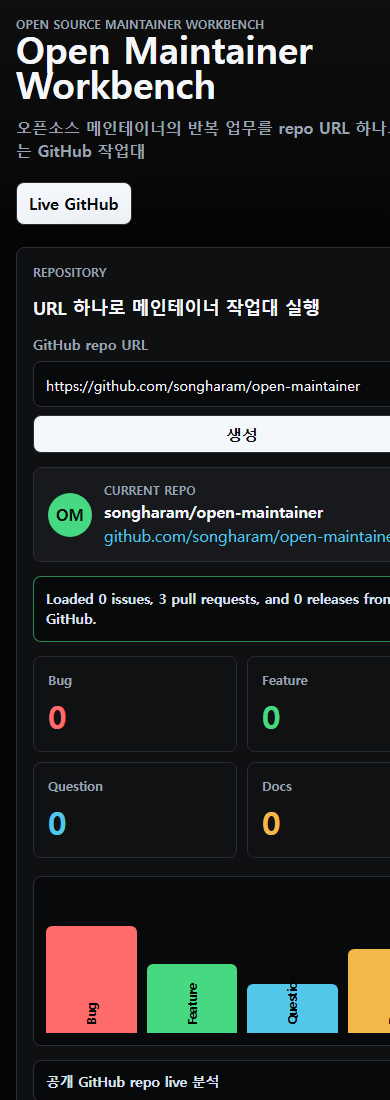
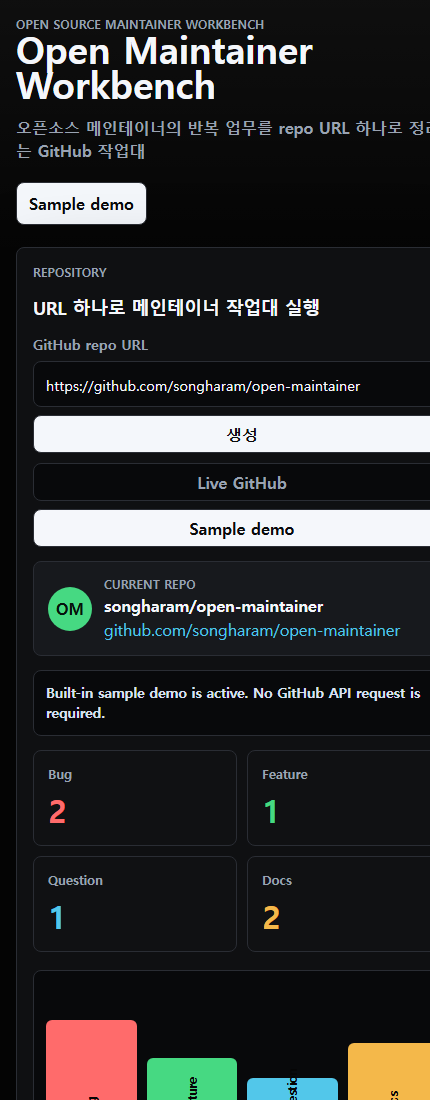
feat: add sample demo mode

Changed region(s): [[0.0308, 0.0, 1.0, 1.0]]

diff --git a/app.js b/app.js
@@ -1,4 +1,5 @@
 import { extractRepoIdentity, generateMaintainerWorkspace } from "./src/analyzer.js";
+import { DATA_MODES, resolveInitialDataMode } from "./src/demo-mode.js";
 import {
   GitHubProviderError,
   getRepositorySnapshotFromGitHub
@@ -7,6 +8,7 @@ import { getRepositorySnapshot } from "./src/providers/sample-provider.js";
 
 const form = document.querySelector("#repoForm");
 const repoInput = document.querySelector("#repoInput");
+const modeButtons = document.querySelectorAll("[data-mode]");
 const providerStatus = document.querySelector("#providerStatus");
 const repoName = document.querySelector("#repoName");
 const repoUrl = document.querySelector("#repoUrl");
@@ -35,6 +37,7 @@ const outputs = {
 };
 
 let latestWorkspace;
+let currentDataMode = resolveInitialDataMode(window.location.search);
 
 const categoryLabels = {
   bug: "Bug",
@@ -46,6 +49,15 @@ const categoryLabels = {
 form.addEventListener("submit", async (event) => {
   event.preventDefault();
   await renderWorkspace(repoInput.value);
+});
+
+modeButtons.forEach((button) => {
+  button.addEventListener("click", async () => {
+    currentDataMode = button.dataset.mode;
+    updateModeButtons();
+    updateDemoUrl(currentDataMode);
+    await renderWorkspace(repoInput.value);
+  });
 });
 
 document.querySelectorAll(".tab").forEach((button) => {
@@ -74,14 +86,19 @@ downloadMarkdown.addEventListener("click", () => {
   URL.revokeObjectURL(link.href);
 });
 
+updateModeButtons();
 await renderWorkspace(repoInput.value);
 
 async function renderWorkspace(repoValue) {
-  providerStatus.textContent = "Loading GitHub";
-  providerNotice.textContent = "공개 GitHub 저장소 데이터를 불러오는 중입니다.";
+  providerStatus.textContent =
+    currentDataMode === DATA_MODES.sample ? "Loading sample" : "Loading GitHub";
+  providerNotice.textContent =
+    currentDataMode === DATA_MODES.sample
+      ? "내장 샘플 메인테이너 워크로드를 불러오는 중입니다."
+      : "공개 GitHub 저장소 데이터를 불러오는 중입니다.";
   providerNotice.dataset.kind = "loading";
   const repoIdentity = extractRepoIdentity(repoValue);
-  const { snapshot, notice } = await loadRepositorySnapshot(repoIdentity);
+  const { snapshot, notice, sourceMode } = await loadRepositorySnapshot(repoIdentity, currentDataMode);
   const workspace = generateMaintainerWorkspace(repoValue, snapshot);
   latestWorkspace = workspace;
 
@@ -104,26 +121,37 @@ async function renderWorkspace(repoValue) {
   outputs.report.textContent = workspace.weeklyReport;
   outputs.pitch.textContent = workspace.applicationPitch;
   outputs.export.textContent = workspace.markdownExport;
-  renderProviderStatus(snapshot, notice);
+  renderProviderStatus(snapshot, notice, sourceMode);
 }
 
-async function loadRepositorySnapshot(repoIdentity) {
+async function loadRepositorySnapshot(repoIdentity, mode) {
+  if (mode === DATA_MODES.sample) {
+    const snapshot = await getRepositorySnapshot();
+    return {
+      snapshot,
+      notice: "Built-in sample demo is active. No GitHub API request is required.",
+      sourceMode: DATA_MODES.sample
+    };
+  }
+
   try {
     const snapshot = await getRepositorySnapshotFromGitHub(repoIdentity);
     return {
       snapshot,
-      notice: snapshot.status.message
+      notice: snapshot.status.message,
+      sourceMode: DATA_MODES.live
     };
   } catch (error) {
     const fallback = await getRepositorySnapshot();
     return {
       snapshot: fallback,
-      notice: `${providerErrorMessage(error)} Sample data fallback is active.`
+      notice: `${providerErrorMessage(error)} Sample data fallback is active.`,
+      sourceMode: DATA_MODES.live
     };
   }
 }
 
-function renderProviderStatus(snapshot, notice) {
+function renderProviderStatus(snapshot, notice, sourceMode) {
   if (snapshot.provider === "github") {
     providerStatus.textContent = snapshot.status.kind === "empty" ? "Live GitHub empty" : "Live GitHub";
     providerNotice.dataset.kind = snapshot.status.kind;
@@ -131,9 +159,27 @@ function renderProviderStatus(snapshot, notice) {
     return;
   }
 
-  providerStatus.textContent = "Sample fallback";
-  providerNotice.dataset.kind = "fallback";
+  providerStatus.textContent =
+    sourceMode === DATA_MODES.sample ? "Sample demo" : "Sample fallback";
+  providerNotice.dataset.kind = sourceMode === DATA_MODES.sample ? "sample" : "fallback";
   providerNotice.textContent = notice;
+}
+
+function updateModeButtons() {
+  modeButtons.forEach((button) => {
+    button.classList.toggle("is-active", button.dataset.mode === currentDataMode);
+  });
+}
+
+function updateDemoUrl(mode) {
+  const url = new URL(window.location.href);
+  url.searchParams.delete("mode");
+  if (mode === DATA_MODES.sample) {
+    url.searchParams.set("demo", DATA_MODES.sample);
+  } else {
+    url.searchParams.delete("demo");
+  }
+  window.history.replaceState(null, "", `${url.pathname}${url.search}${url.hash}`);
 }
 
 function providerErrorMessage(error) {

diff --git a/styles.css b/styles.css
@@ -108,6 +108,7 @@ h3 {
 .status-pill,
 .copy-button,
 .tab,
+.mode-button,
 .repo-form button {
   border: 1px solid var(--line);
   border-radius: 8px;
@@ -199,6 +200,25 @@ h3 {
 .copy-button {
   min-height: 38px;
   padding: 0 14px;
+}
+
+.mode-switch {
+  display: grid;
+  grid-template-columns: repeat(2, minmax(0, 1fr));
+  gap: 8px;
+  margin: -4px 0 14px;
+}
+
+.mode-button {
+  min-height: 38px;
+  background: #08090b;
+  color: var(--muted);
+  padding: 0 12px;
+}
+
+.mode-button.is-active {
+  background: var(--text);
+  color: #0a0b0d;
 }
 
 .repo-card {
@@ -599,6 +619,10 @@ h3 {
   .tab {
     min-height: 36px;
     padding: 0 10px;
+  }
+
+  .mode-switch {
+    grid-template-columns: minmax(0, 1fr);
   }
 
   .issue-column {

diff --git a/src/demo-mode.js b/src/demo-mode.js
@@ -1,0 +1,21 @@
+export const DATA_MODES = Object.freeze({
+  live: "live",
+  sample: "sample"
+});
+
+export function resolveInitialDataMode(search) {
+  const params =
+    search instanceof URLSearchParams
+      ? search
+      : new URLSearchParams(String(search || "").replace(/^\?/, ""));
+
+  if (params.get("demo") === DATA_MODES.sample || params.get("mode") === DATA_MODES.sample) {
+    return DATA_MODES.sample;
+  }
+
+  return DATA_MODES.live;
+}
+
+export function modeButtonLabel(mode) {
+  return mode === DATA_MODES.sample ? "Sample demo" : "Live GitHub";
+}

diff --git a/index.html b/index.html
@@ -51,6 +51,11 @@
             </div>
           </form>
 
+          <div class="mode-switch" aria-label="Data source mode">
+            <button class="mode-button" data-mode="live" type="button">Live GitHub</button>
+            <button class="mode-button" data-mode="sample" type="button">Sample demo</button>
+          </div>
+
           <div class="repo-card" id="repoCard">
             <span class="repo-avatar" aria-hidden="true">OM</span>
             <div>

diff --git a/CHANGELOG.md b/CHANGELOG.md
@@ -1,5 +1,12 @@
 # Changelog
 
+## 0.6.0 - 2026-06-02
+
+- Added explicit `Live GitHub` and `Sample demo` data modes.
+- Added `?demo=sample` support so reviewers can open a populated static demo without relying on GitHub API availability.
+- Added tests for demo mode query parsing and UI labels.
+- Updated README, demo script, and architecture notes for the new data mode flow.
+
 ## 0.5.0 - 2026-06-02
 
 - Added a GitHub repository health checklist artifact for repo profile, templates, labels, CI, and release readiness.

diff --git a/README.md b/README.md
@@ -11,6 +11,7 @@ Open Maintainer Workbench는 오픈소스 메인테이너가 반복적으로 처
 
 - Netlify 배포: `maintainer-workbench-netlify.zip`을 Netlify에 업로드하면 바로 실행됩니다.
 - GitHub Pages 선택 배포: 저장소 Settings에서 Pages source를 GitHub Actions로 설정한 뒤 `Deploy GitHub Pages` workflow를 수동 실행하세요.
+- Sample demo: 앱에서 `Sample demo`를 선택하거나 URL에 `?demo=sample`을 붙이면 GitHub API 없이 풍부한 예시 워크로드를 바로 볼 수 있습니다.
 
 ## 핵심 기능
 
@@ -26,6 +27,7 @@ Open Maintainer Workbench는 오픈소스 메인테이너가 반복적으로 처
 - 프로젝트 공유 및 지원용 요약 생성
 - 전체 산출물 Markdown 복사 및 다운로드
 - 공개 GitHub 저장소의 Issues, Pull Requests, Releases live 읽기
+- `Live GitHub` / `Sample demo` 데이터 모드 전환
 - API 실패, rate limit, 빈 저장소 상태 표시
 - GitHub API 실패 시 예시 데이터 fallback
 
@@ -69,12 +71,15 @@ python3 -m http.server 4173
 ├── styles.css
 ├── src
 │   ├── analyzer.js
+│   ├── demo-mode.js
 │   ├── sample-data.js
 │   └── providers
 │       ├── github-provider.js
 │       └── sample-provider.js
 ├── tests
-│   └── analyzer.test.mjs
+│   ├── analyzer.test.mjs
+│   ├── demo-mode.test.mjs
+│   └── github-provider.test.mjs
 ├── docs
 │   ├── codex-application-copy.md
 │   ├── codex-application-summary.md

diff --git a/docs/demo-script.md b/docs/demo-script.md
@@ -4,11 +4,11 @@ Use this flow when showing the project as a practical open-source maintainer wor
 
 ## 1. Open the Workbench
 
-Open the deployed site or local static server. Point out that the app starts in live GitHub mode for public repositories and still does not need a GitHub token. If GitHub API access fails, the app shows the reason and falls back to sample data.
+Open the deployed site or local static server. Point out that the app starts in live GitHub mode for public repositories and still does not need a GitHub token. Then switch to `Sample demo` or open `?demo=sample` to show a richer built-in maintainer workload without depending on GitHub API availability.
 
 ## 2. Enter a Repository URL
 
-Use the default URL or paste another GitHub-style URL. Click `생성`.
+Use the default URL or paste another GitHub-style URL. Click `생성`. Use `Live GitHub` for real public repository data and `Sample demo` when you need predictable demo data.
 
 ## 3. Show Maintainer Outputs
 
@@ -28,4 +28,4 @@ Walk through these tabs:
 
 ## 4. Explain the Extension Path
 
-The current demo already reads public GitHub Issues, Pull Requests, changed files, and Releases through `src/providers/github-provider.js`. If the API is unavailable, it falls back to sample data so the demo remains reviewable. The next step is optional token support and Codex/API-assisted summaries grounded in real repository history.
+The current demo already reads public GitHub Issues, Pull Requests, changed files, and Releases through `src/providers/github-provider.js`. It also has an explicit `Sample demo` mode so reviewers can see a populated workflow even when the target repository is empty. The next step is optional token support and Codex/API-assisted summaries grounded in real repository history.

diff --git a/docs/codex-application-summary.md b/docs/codex-application-summary.md
@@ -8,11 +8,12 @@ Open Maintainer Workbench는 오픈소스 메인테이너가 반복적으로 수
 
 오픈소스 프로젝트 메인테이너는 코드를 쓰는 시간만큼 이슈 triage, PR 리뷰, 릴리스 노트, README/CONTRIBUTING 문서 정리에 많은 시간을 씁니다. 특히 작은 프로젝트일수록 자동화 도구를 붙이는 비용이 커서, 좋은 워크플로를 갖추기 전에 유지보수 부담이 먼저 커집니다.
 
-이 앱은 GitHub 저장소 URL 하나를 기준으로 메인테이너가 바로 사용할 수 있는 결과물을 생성합니다. 현재는 공개 GitHub API로 Issues, Pull Requests, Releases를 읽고, API 제한이나 네트워크 문제가 있으면 예시 데이터로 fallback하므로 심사자가 즉시 체험할 수 있습니다. 내부 구조는 provider 방식이라 나중에 토큰 기반 접근이나 Codex/API 분석을 붙이기 쉽습니다.
+이 앱은 GitHub 저장소 URL 하나를 기준으로 메인테이너가 바로 사용할 수 있는 결과물을 생성합니다. 현재는 공개 GitHub API로 Issues, Pull Requests, Releases를 읽고, API 제한이나 네트워크 문제가 있으면 예시 데이터로 fallback하므로 심사자가 즉시 체험할 수 있습니다. 또한 `Sample demo` 모드를 제공해 대상 저장소가 비어 있어도 풍부한 워크로드 화면을 바로 볼 수 있습니다. 내부 구조는 provider 방식이라 나중에 토큰 기반 접근이나 Codex/API 분석을 붙이기 쉽습니다.
 
 ## 데모에서 보여줄 점
 
 - 초보자도 URL 입력 후 `생성` 버튼만 누르면 결과를 확인할 수 있습니다.
+- `Live GitHub`와 `Sample demo`를 전환해 실제 공개 저장소와 예시 워크로드를 모두 보여줄 수 있습니다.
 - 이슈를 `bug`, `feature`, `question`, `docs`로 나눠 유지보수 우선순위를 빠르게 파악합니다.
 - `우선순위` 탭에서 이번 주에 먼저 처리할 액션과 리스크 알림을 확인할 수 있습니다.
 - PR 리뷰 체크리스트, GitHub 저장소 운영 체크리스트, 릴리스 노트, README 개선안, CONTRIBUTING.md 초안, good first issue 추천, 주간 리포트를 한 화면에서 전환해 볼 수 있습니다.

diff --git a/docs/architecture.md b/docs/architecture.md
@@ -26,10 +26,12 @@ flowchart LR
 - `styles.css`: black-based responsive interface.
 - `app.js`: browser UI orchestration.
 - `src/analyzer.js`: repository identity parsing, issue classification, good first issue scoring, and maintainer artifact generation.
+- `src/demo-mode.js`: deterministic helpers for `Live GitHub` and `Sample demo` mode selection.
 - `src/sample-data.js`: no-auth demo dataset.
 - `src/providers/sample-provider.js`: returns the demo snapshot.
 - `src/providers/github-provider.js`: live GitHub API provider for public repository data.
 - `tests/analyzer.test.mjs`: behavior tests for parsing, classification, and artifact generation.
+- `tests/demo-mode.test.mjs`: tests for demo query parameter and mode label handling.
 - `tests/github-provider.test.mjs`: provider tests for normalization and API error handling.
 
 ## Data Shape

diff --git a/docs/codex-application-copy.md b/docs/codex-application-copy.md
@@ -6,7 +6,7 @@ Open Maintainer Workbench
 
 ## 짧은 소개
 
-GitHub 저장소 URL만 입력하면 오픈소스 메인테이너에게 필요한 이슈 분류, 이번 주 우선순위 브리프, PR 리뷰 체크리스트, GitHub 저장소 운영 체크리스트, 릴리스 노트, README 개선안, CONTRIBUTING.md 초안, good first issue 추천, 주간 리포트, 전체 Markdown export를 생성하는 웹앱입니다. Codex 지원을 받으면 실제 GitHub 데이터와 프로젝트별 유지보수 패턴을 바탕으로 이 작업대를 더 정확하고 실용적인 메인테이너 보조 도구로 발전시킬 수 있습니다.
+GitHub 저장소 URL만 입력하면 오픈소스 메인테이너에게 필요한 이슈 분류, 이번 주 우선순위 브리프, PR 리뷰 체크리스트, GitHub 저장소 운영 체크리스트, 릴리스 노트, README 개선안, CONTRIBUTING.md 초안, good first issue 추천, 주간 리포트, 전체 Markdown export를 생성하는 웹앱입니다. `Live GitHub`와 `Sample demo` 모드를 모두 제공해 실제 공개 저장소와 GitHub API 없는 예시 워크로드를 함께 보여줄 수 있습니다. Codex 지원을 받으면 실제 GitHub 데이터와 프로젝트별 유지보수 패턴을 바탕으로 이 작업대를 더 정확하고 실용적인 메인테이너 보조 도구로 발전시킬 수 있습니다.
 
 ## 문제
 

diff --git a/docs/github-repository-upgrade.md b/docs/github-repository-upgrade.md
@@ -60,6 +60,8 @@ Then refresh:
 - `screenshots/maintainer-workbench-mobile.png`
 - `outputs/maintainer-workbench-netlify.zip`
 
+Use `?demo=sample` for screenshots when the default repository has no open issues. This keeps the README visually useful while the live mode remains available for real public repositories.
+
 ## Application Positioning
 
 Frame the repository as an open-source maintainer tool first. The Codex/OpenAI support program can be mentioned as one useful support path, but the project should still make sense for maintainers outside that program.